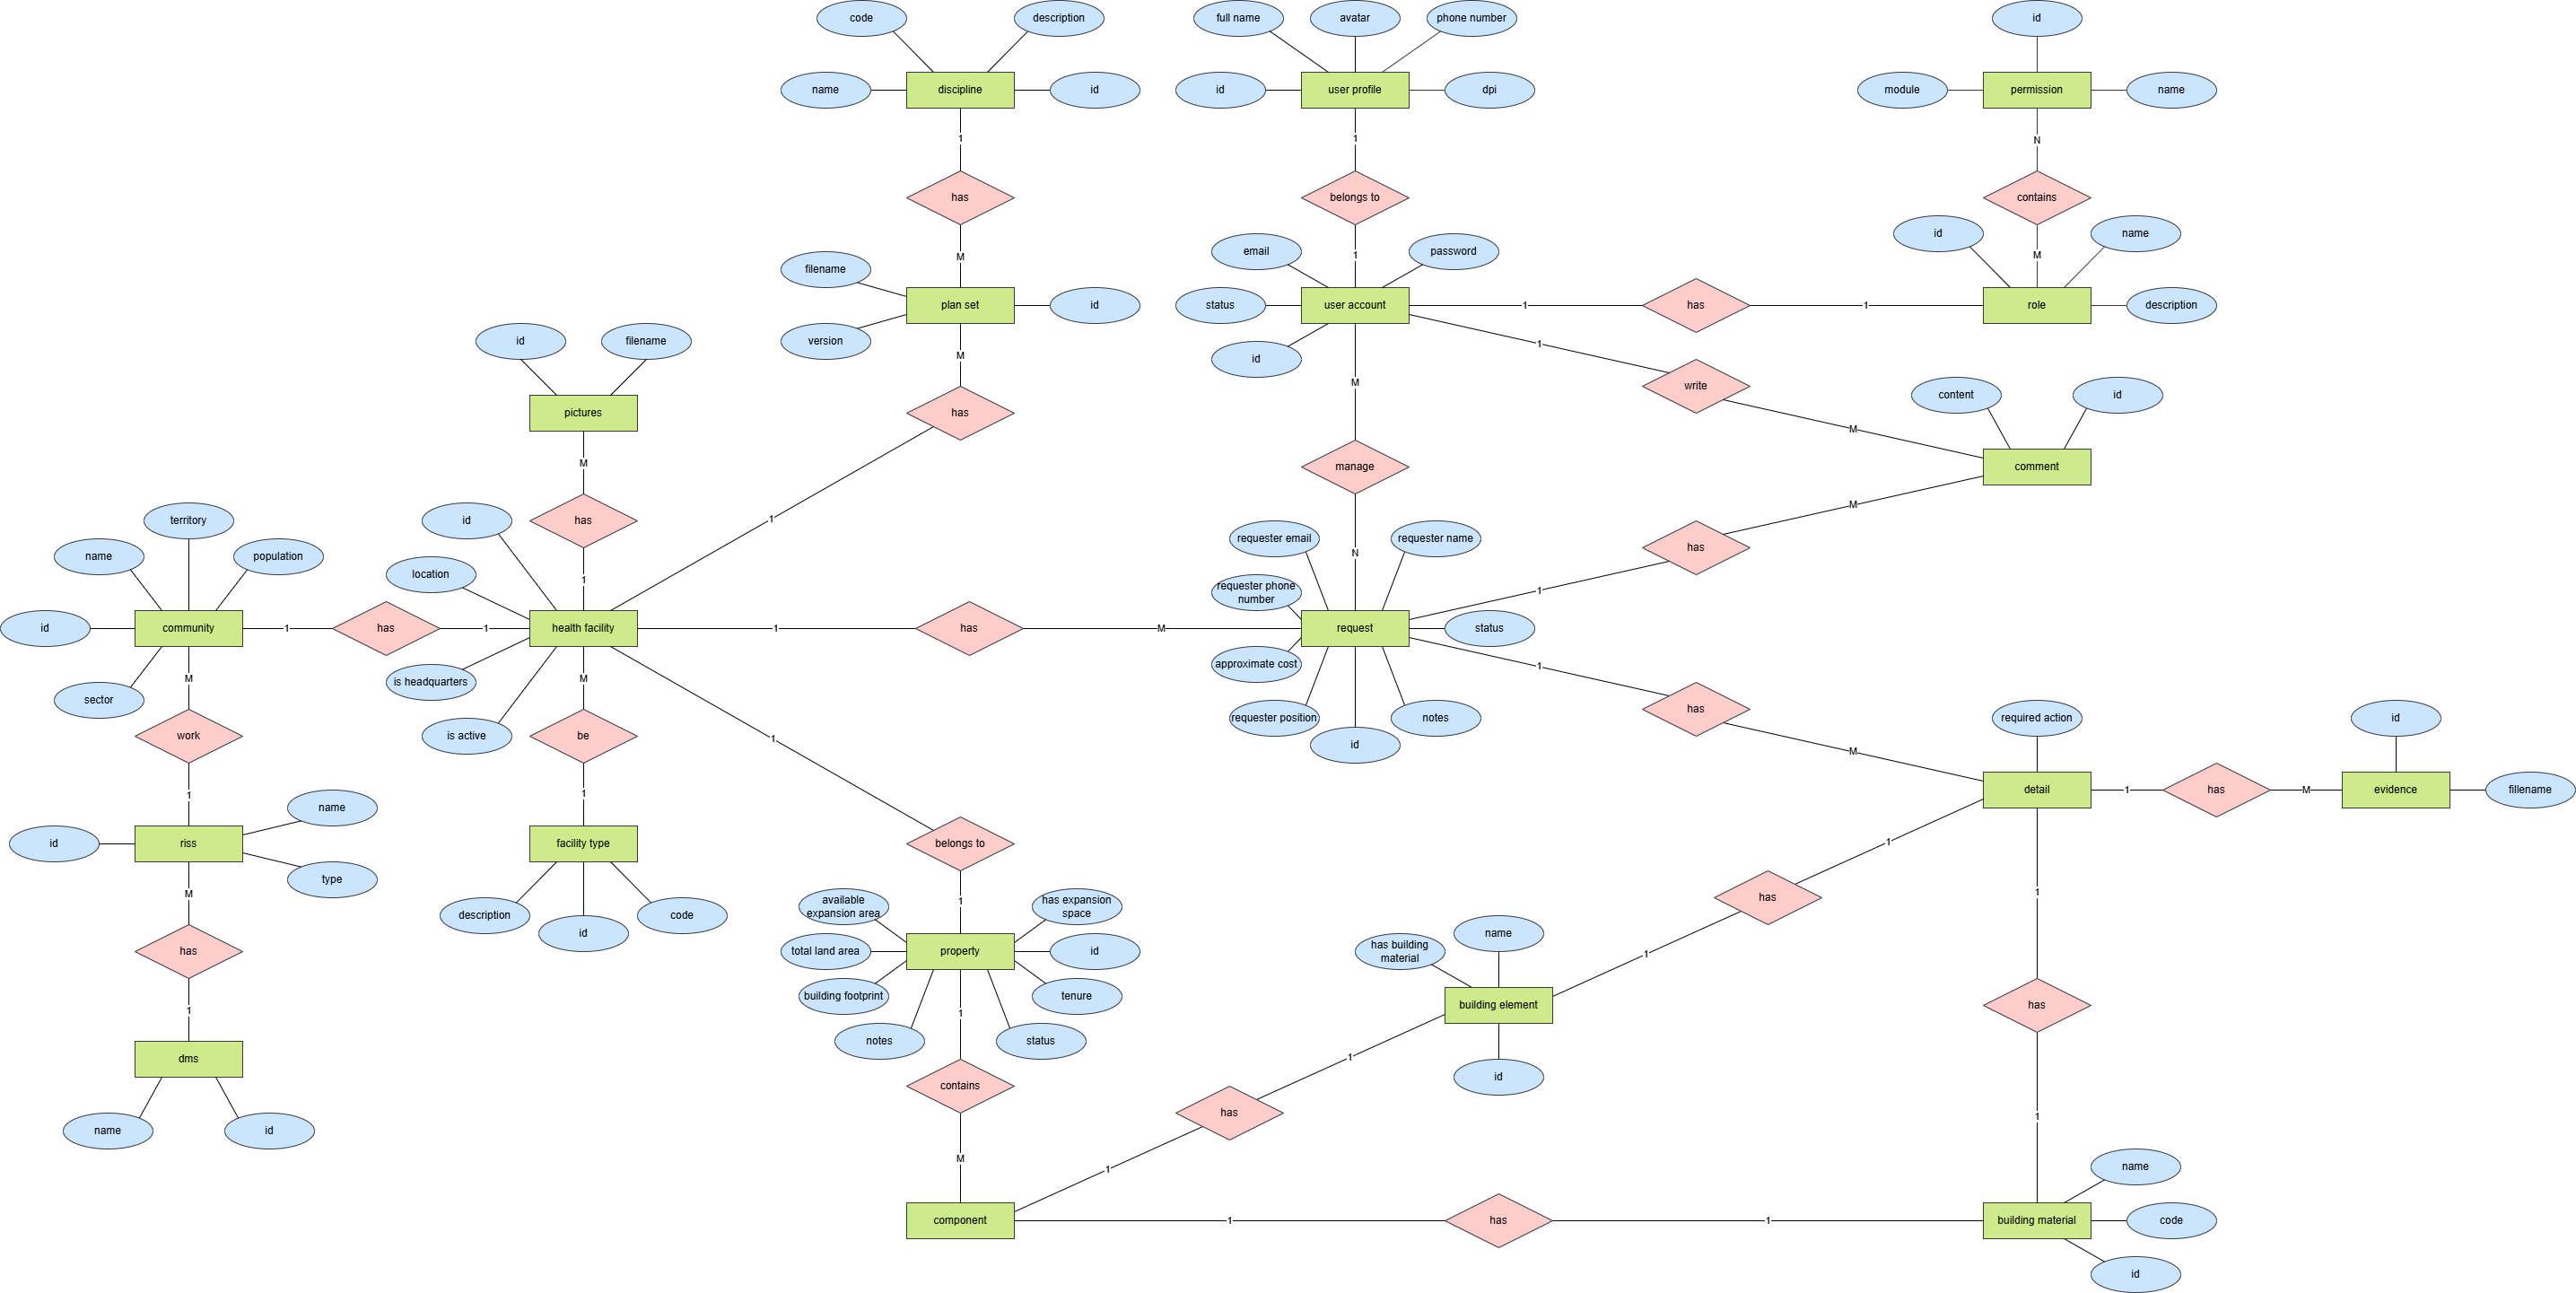
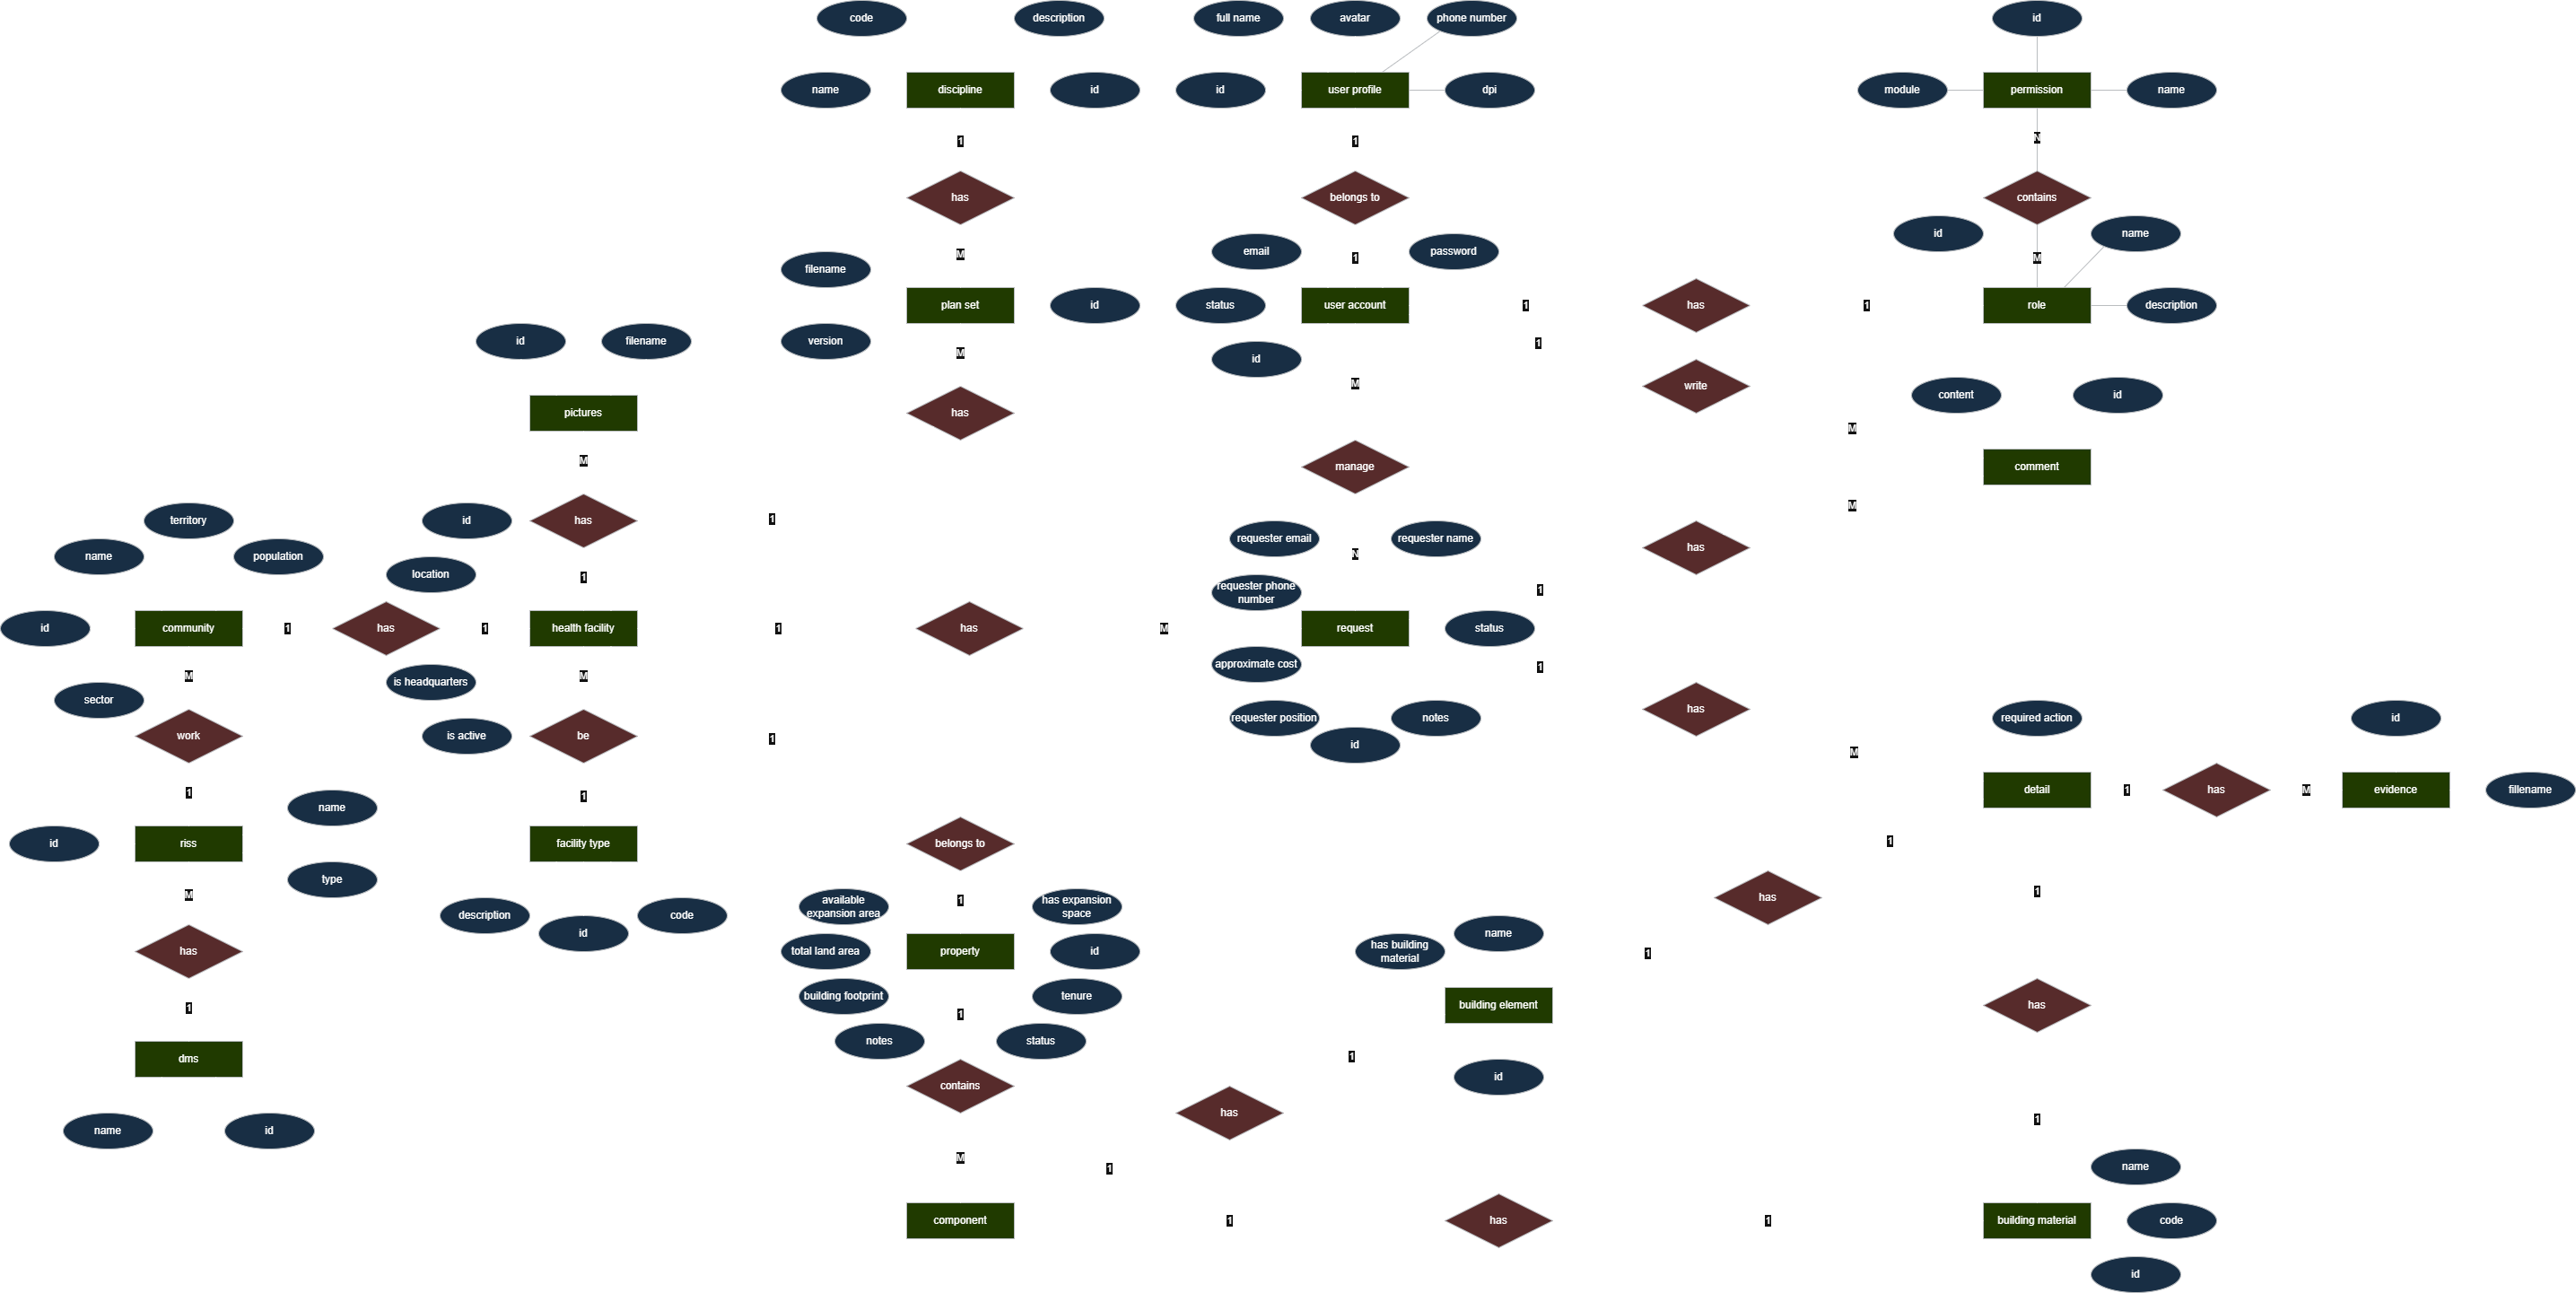
docs: add db login design

diff --git a/README.md b/README.md
@@ -367,4 +367,6 @@ La Dirección Departamental de Redes Integradas de Servicios de Salud de Quezalt
 
 ### Diseño Lógico
 
+![diseño-lógico](./assets/db/logic-design.png)
+
 ### Diseño Físico